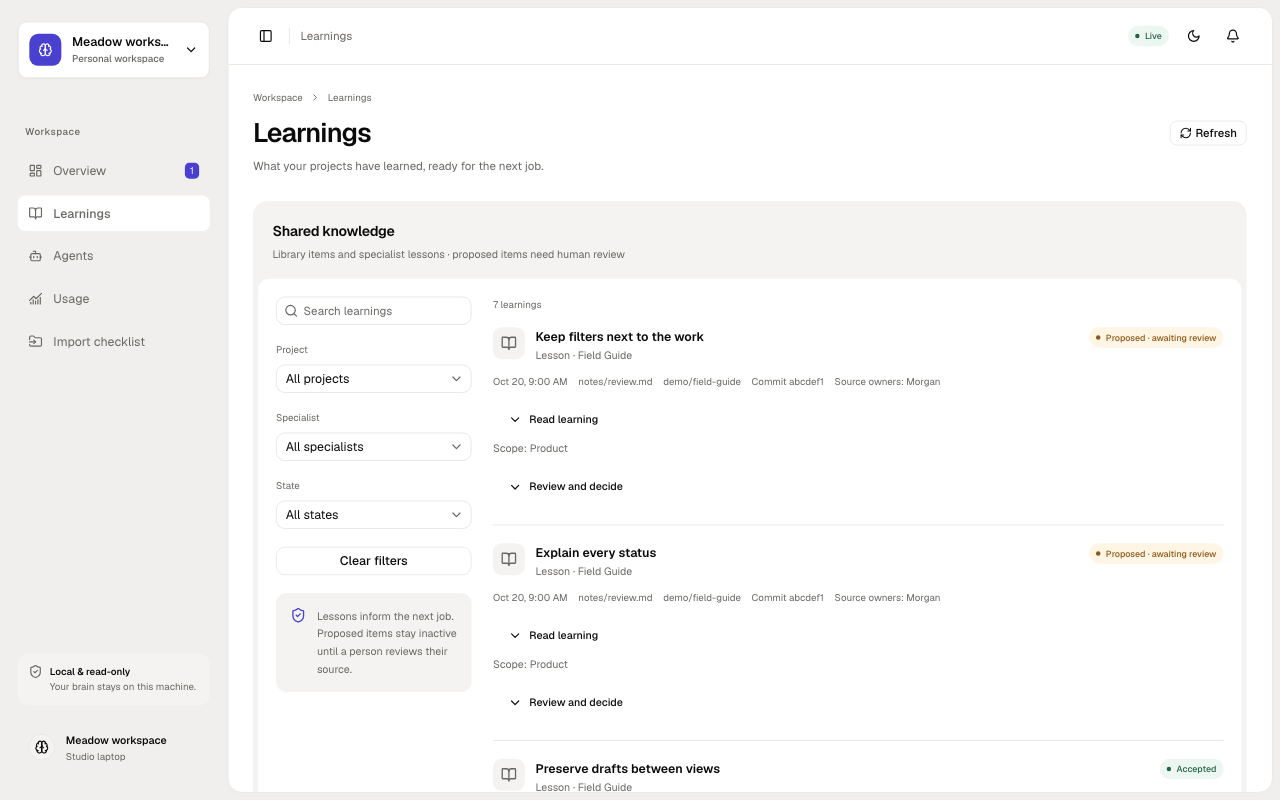
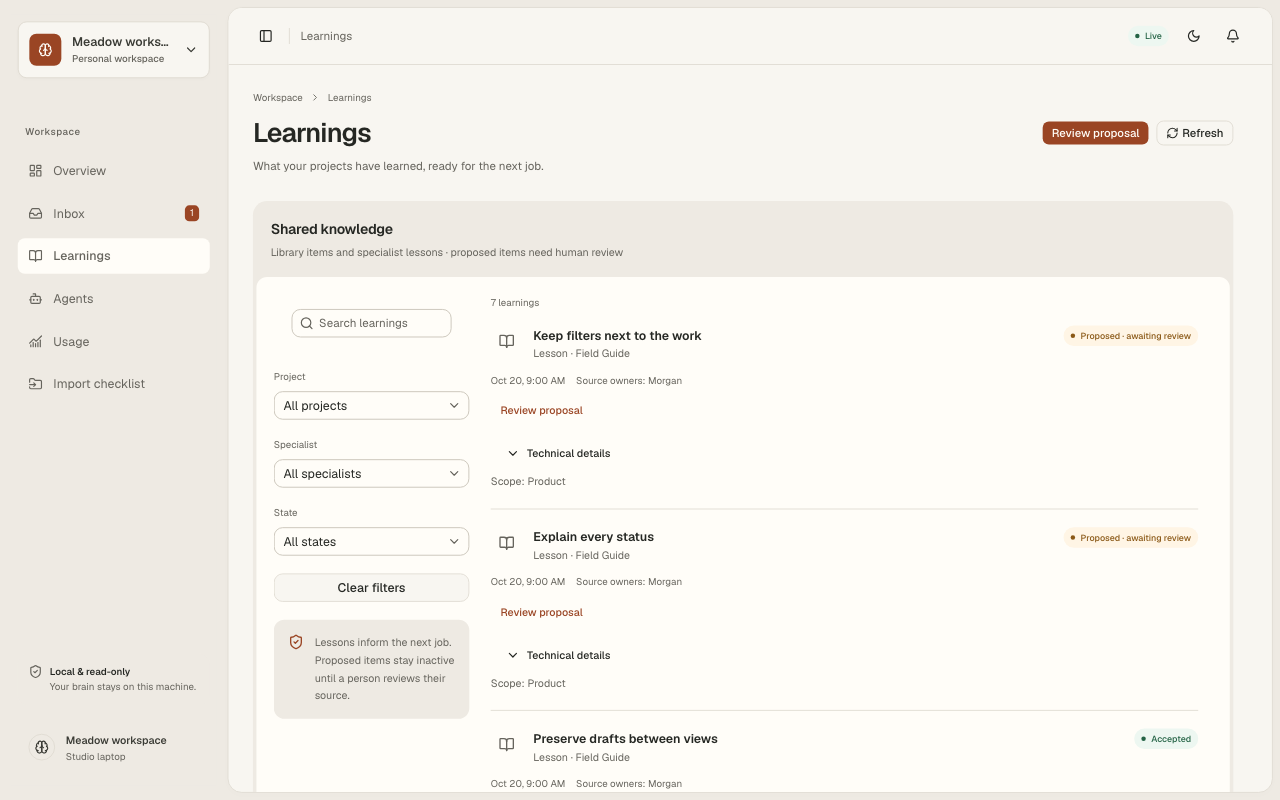
Refresh notebook dashboard documentation and synthetic screenshot tour

diff --git a/ui/README.md b/ui/README.md
@@ -16,7 +16,7 @@ In another terminal, run `cd ui && npm run test:browser`. If browser engines are
 
 Open `http://127.0.0.1:4109/?k=demo` for synthetic data, or `/snapshot` for a saved snapshot. Fixture scenarios include `?k=long`, `empty`, `single`, `ten`, `hundred`, `thousand`, `longtext`, `longtitle`, `rtl`, `partial`, `error`, and `loading`; no key demonstrates the permission state. No real brain is read. The ordinary Python CLI can also run against an isolated temporary HOME.
 
-Evaluate `tests/ui-checks.js` (from the repository root) in the fixture browser to verify navigation, controls, view parity, filters, paging, command generation, escaping and shell geometry. Run it at desktop and narrow widths. `tests/ui-fitness.js` measures contrast, field labels, font size and geometry in each rendered view. The Playwright tests add actual touch emulation, keyboard navigation, snapshots and state/error checks, plus live detail-panel interaction in Chromium and WebKit. They also test all six destinations and project detail at four sizes and both themes with empty, single-item, ten-item, hundred-item, thousand-request, long-text, long-title and RTL fixtures. Set `UI_TOUR_DIR` to an external report folder to save these synthetic screenshots and measurement JSON. Screenshots and traces are disabled in that runner; the T3 browser supplies the screenshot tour.
+Evaluate `tests/ui-checks.js` (from the repository root) in the fixture browser to verify navigation, controls, view parity, filters, paging, command generation, escaping and shell geometry. Run it at desktop and narrow widths. `tests/ui-fitness.js` measures contrast, field labels, font size and geometry in each rendered view. The Playwright tests add actual touch emulation, keyboard navigation, snapshots and state/error checks, plus live detail-panel interaction in Chromium and WebKit. They also test all six destinations and project detail at four sizes and both themes with empty, single-item, ten-item, hundred-item, thousand-request, long-text, long-title and RTL fixtures. Set `UI_TOUR_DIR` to an external report folder to save these synthetic screenshots and measurement JSON. Automatic failure screenshots and traces are disabled in that runner; explicit synthetic tour captures use UI_TOUR_DIR, and the T3 browser supplies the main tour and walkthrough.
 
 The Python scenario suite verifies serving, key protection, live changes, static asset containment and the unchanged JSON contract.
 

diff --git a/README.md b/README.md
@@ -248,7 +248,9 @@ needs a key that is printed with the address. Desktop notifications are opt-in, 
 inbox item; saved ids survive reloads.
 
 <details>
-<summary><b>Four views</b> (demo data; follows your light or dark theme)</summary>
+<summary><b>Five views</b> (demo data; follows your light or dark theme)</summary>
+
+<picture><source media="(prefers-color-scheme: dark)" srcset="docs/img/ui-inbox-dark.png"><img alt="Inbox: questions with conversation actions, search and paging" src="docs/img/ui-inbox-light.png"></picture>
 
 | Learnings | Agents |
 | --- | --- |
